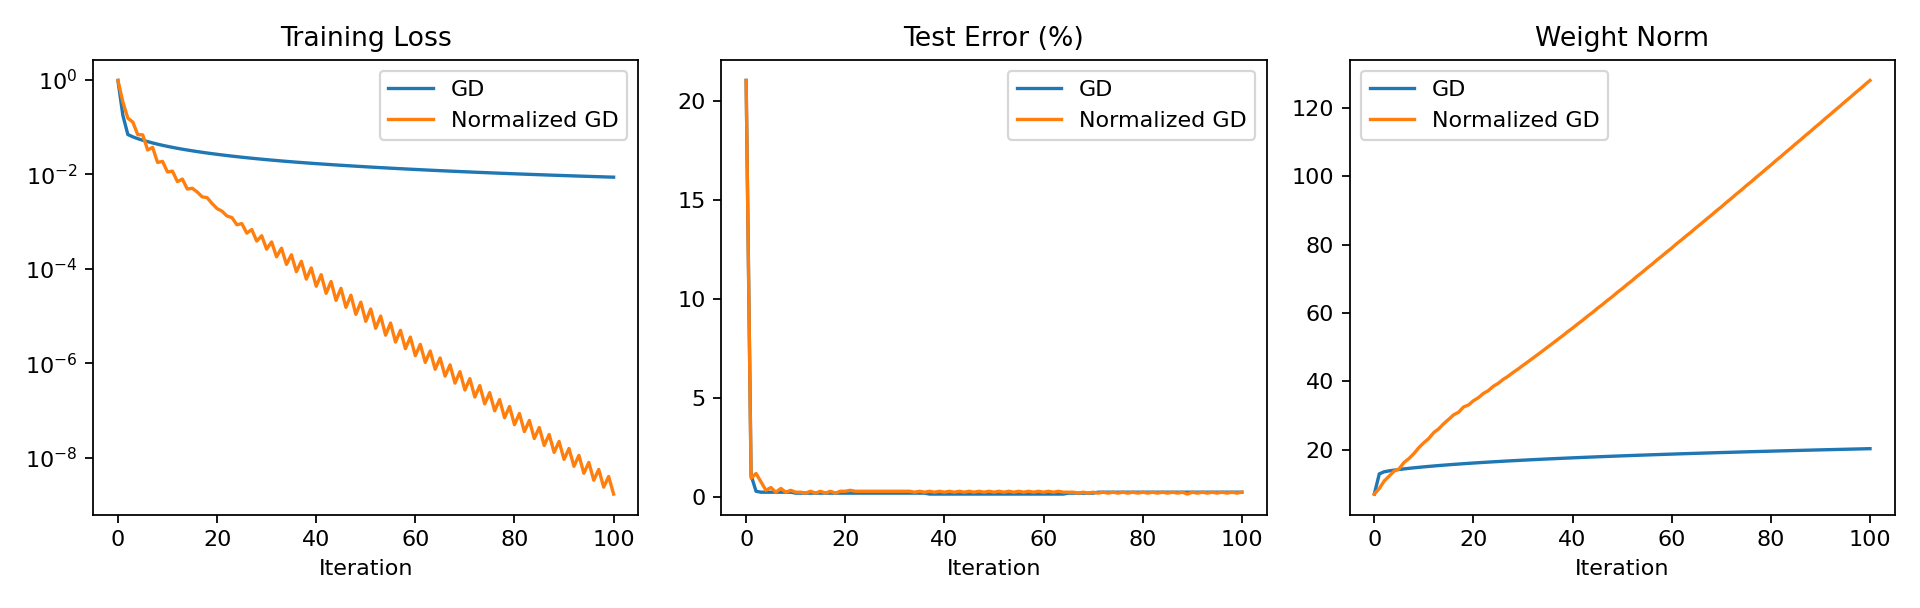
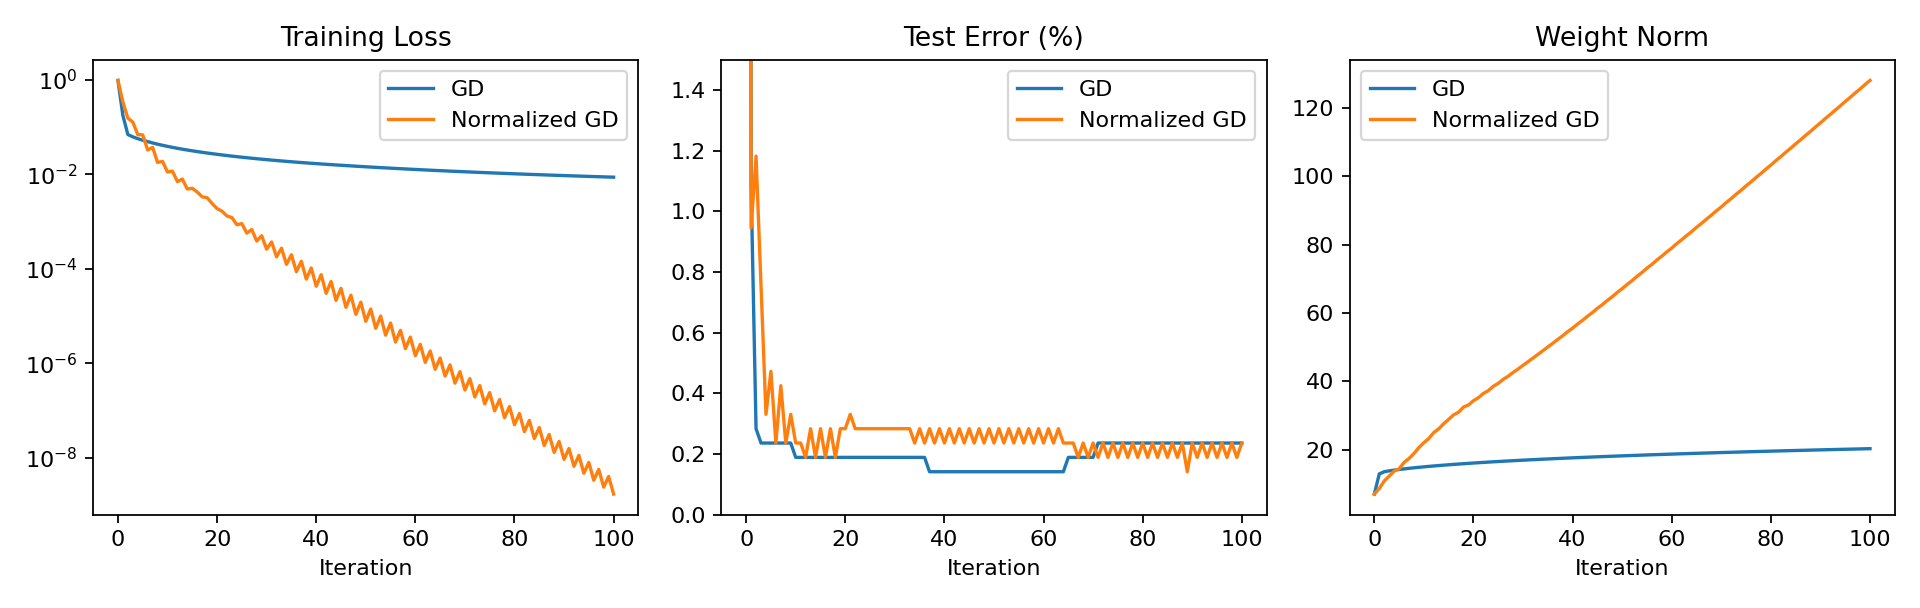
Zoomed fig1 2nd plot

Changed region(s): [[0.3438, 0.125, 0.6562, 0.8438], [0.3438, 0.8125, 0.375, 0.875]]

diff --git a/src/experiments/fig1_mnist01.py b/src/experiments/fig1_mnist01.py
@@ -73,6 +73,7 @@ def main() -> None:
     plt.plot(it_ngd, [100.0 * r.get("test_error", 0.0) for r in ngd_hist], label="Normalized GD")
     plt.title("Test Error (%)")
     plt.xlabel("Iteration")
+    plt.ylim(0, 1.5)
     plt.legend()
 
     plt.subplot(1, 3, 3)
